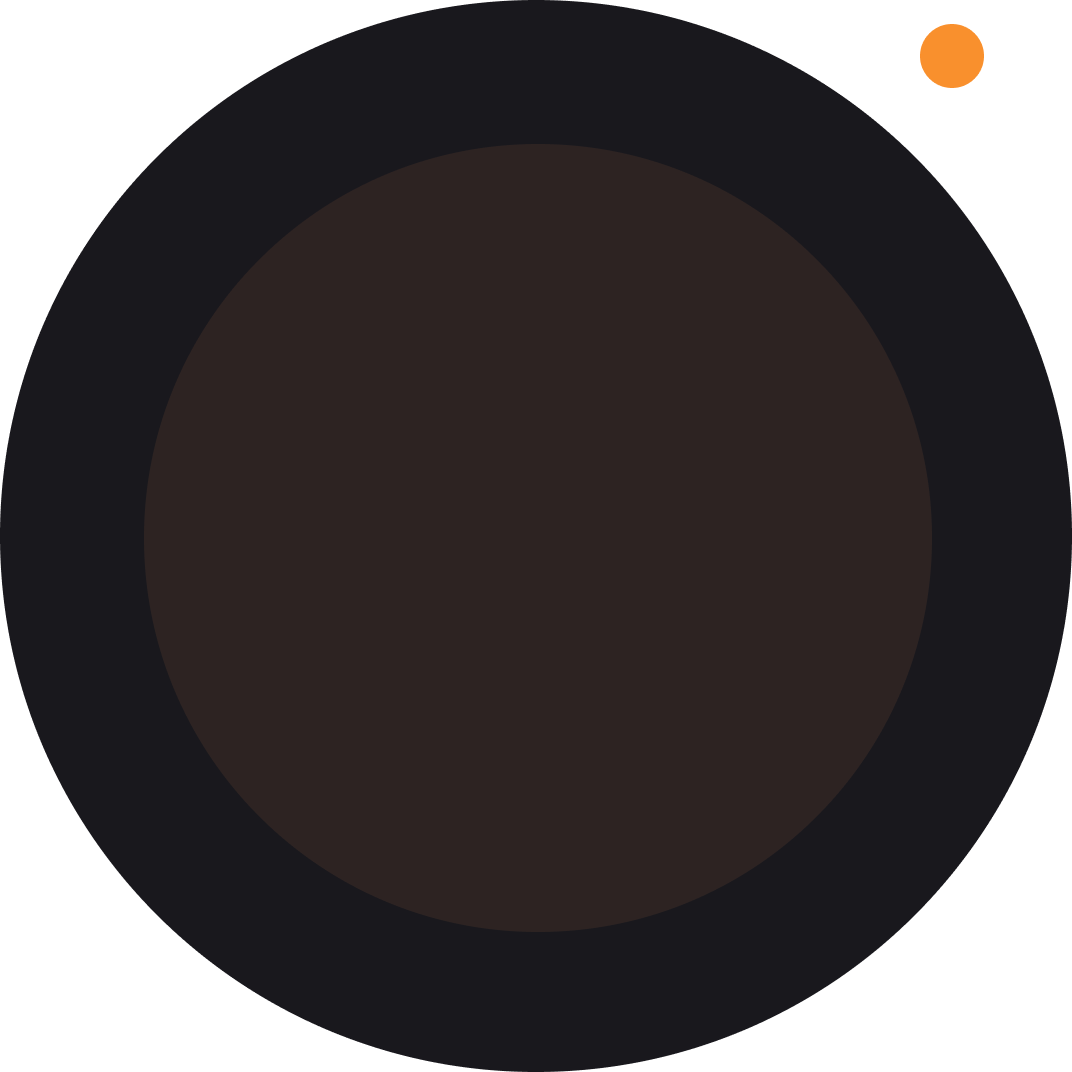
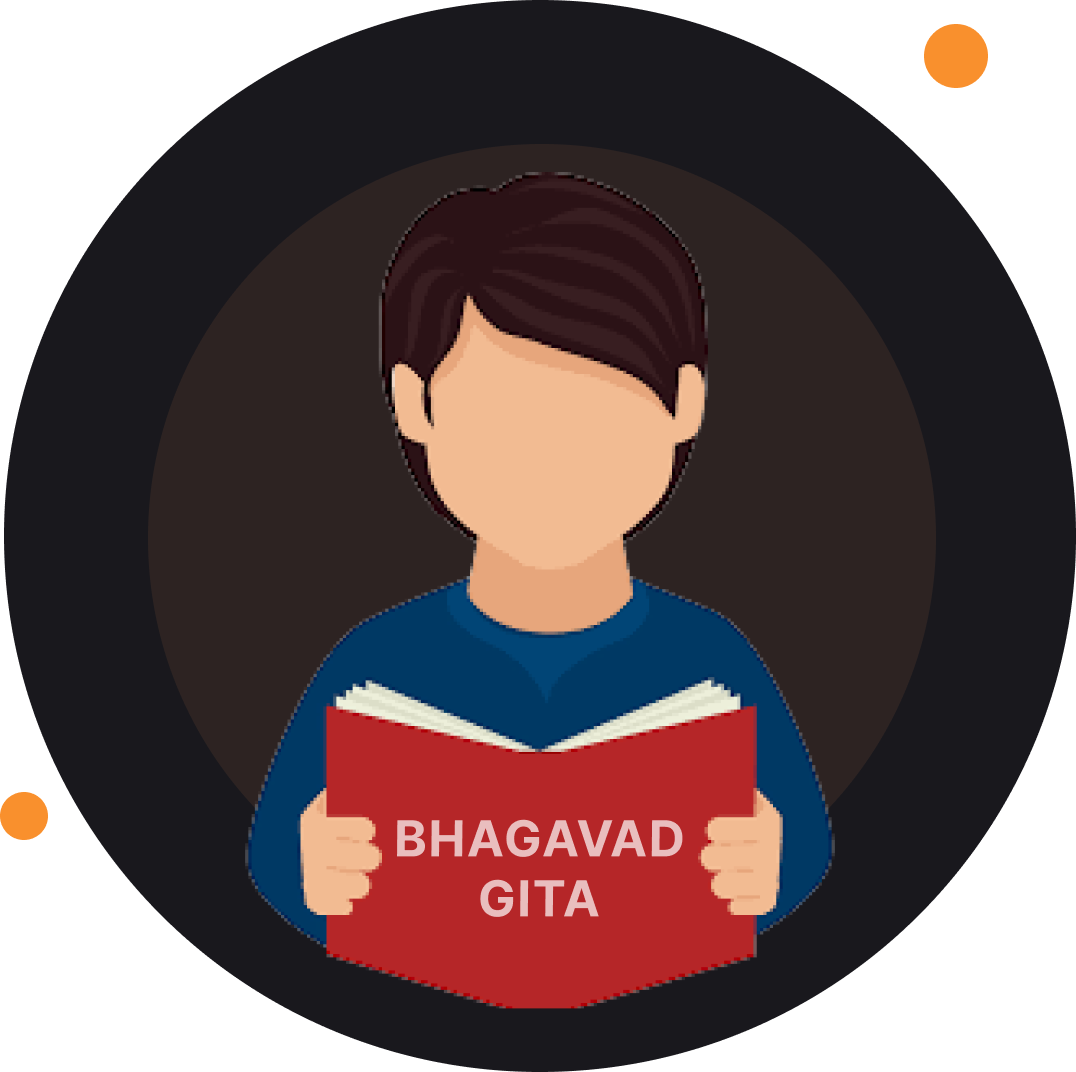
feat: completed onboarding screen

diff --git a/lib/features/onboarding/presentation/screens/onboarding_screen.dart b/lib/features/onboarding/presentation/screens/onboarding_screen.dart
@@ -1,61 +1,172 @@
-import 'dart:convert';
-
-import 'package:bhagvadgita/core/extensions/string_extension.dart';
+import 'package:bhagvadgita/core/extensions/num_extension.dart';
+import 'package:bhagvadgita/core/shared/widgets/build_text.dart';
+import 'package:bhagvadgita/core/theme/app_colors.dart';
+import 'package:bhagvadgita/features/onboarding/domain/entities/onboarding_model.dart';
 import 'package:bhagvadgita/features/onboarding/presentation/providers/onboarding_providers.dart';
-import 'package:bhagvadgita/core/helper/shared_preference_helper.dart';
-import 'package:bhagvadgita/features/language_change/presentation/screens/language_change_dialog.dart';
 import 'package:flutter/material.dart';
+import 'package:flutter/services.dart';
+import 'package:flutter_screenutil/flutter_screenutil.dart';
 import 'package:hooks_riverpod/hooks_riverpod.dart';
-
-import '../../../../core/dependency_injection/injector.dart';
-import '../../../../core/route/route.dart';
-import '../../../language_change/presentation/providers/language_provider.dart';
 
 class OnBoardingScreen extends ConsumerWidget {
   const OnBoardingScreen({super.key});
 
   @override
   Widget build(BuildContext context, WidgetRef ref) {
-    final notifier = ref.read(languageProvider.notifier);
+    final notifier = ref.read(pageIndexProvider.notifier);
+    final controller = PageController();
+    final currentIndex = ref.watch(pageIndexProvider);
+    List<OnBoardingModel> onboardinglist = [
+      OnBoardingModel(
+          image: "assets/images/onboardingImg1.png",
+          title: "Bhagavad Gita - Simplified",
+          subtitle: "Read the Gita anytime,\n where ever you wish"),
+      OnBoardingModel(
+          image: "assets/images/onboardingImg2.png",
+          title: "Multi Language",
+          subtitle:
+              "It build in two languages Hindi,\n English with best and easy translation "),
+      OnBoardingModel(
+          image: "assets/images/onboardingImg3.png",
+          title: "Audio Book",
+          subtitle:
+              "You can listen the book in Hindi,\n English while doing your work"),
+      OnBoardingModel(
+          image: "assets/images/onboardingImg4.png",
+          title: "Let’s Start",
+          subtitle: "Start app and enjoy it"),
+    ];
+    const style = SystemUiOverlayStyle(
+      statusBarBrightness: Brightness.dark,
+      statusBarIconBrightness: Brightness.light,
+    );
+    SystemChrome.setSystemUIOverlayStyle(style);
+
     return Scaffold(
-      body: Center(
-        child: Column(
-          mainAxisAlignment: MainAxisAlignment.center,
+        backgroundColor: const Color(0xff15161B),
+        body: Column(
           children: [
-            Text("${ref.watch(languageProvider).countryCode}"),
-            ElevatedButton(
-                onPressed: () async {
-                  Map<String, String> localeMap = {
-                    'languageCode': 'ne',
-                    'countryCode': 'NP'
-                  };
-                  await getIt<SharedPreferencesHelper>()
-                      .setString("locale", json.encode(localeMap));
-                  notifier.update((state) => const Locale('ne', 'NP'));
+            Expanded(
+              child: PageView.builder(
+                controller: controller,
+                itemCount: onboardinglist.length,
+                onPageChanged: (value) {
+                  notifier.update((state) => value);
                 },
-                child: const Text("Nepali")),
-            ElevatedButton(
-                onPressed: () async {
-                  Map<String, String> localeMap = {
-                    'languageCode': 'en',
-                    'countryCode': 'US'
-                  };
-                  await getIt<SharedPreferencesHelper>()
-                      .setString("locale", json.encode(localeMap));
-                  notifier.update((state) => const Locale('en', 'US'));
+                itemBuilder: (context, i) {
+                  return OnBoardingItem(
+                    image: onboardinglist[i].image,
+                    title: onboardinglist[i].title,
+                    subtitle: onboardinglist[i].subtitle,
+                  );
                 },
-                child: const Text("English")),
-            InkWell(
-                onTap: () {
-                  showDialog(
-                      context: context,
-                      builder: (_) => const ChangeLanguageDialog());
-                  // AppRouter.pushNamed(
-                  //     context: context, routeName: AppRouter.homeScreen);
-                },
-                child: Text("welcome".localize(context))),
+              ),
+            ),
+            if (currentIndex == 3) ...{
+              ElevatedButton(
+                onPressed: () {},
+                style: ElevatedButton.styleFrom(
+                  backgroundColor: AppColor.primary,
+                ),
+                child: BuildText(
+                  text: "Get started",
+                  weight: FontWeight.w600,
+                  fontSize: 16.sp,
+                  color: Colors.white,
+                  letterSpacing: 1.5,
+                ),
+              )
+            },
+            if (currentIndex != 3) ...{
+              Row(
+                mainAxisAlignment: MainAxisAlignment.spaceAround,
+                children: [
+                  InkWell(
+                    onTap: () {
+                      controller.animateToPage(currentIndex - 1,
+                          duration: const Duration(milliseconds: 300),
+                          curve: Curves.easeInOut);
+                    },
+                    child: BuildText(
+                      text: "SKIP",
+                      color: Colors.white,
+                      fontSize: 14.sp,
+                      weight: FontWeight.w600,
+                    ),
+                  ),
+                  Row(
+                    mainAxisAlignment: MainAxisAlignment.center,
+                    children: List.generate(onboardinglist.length, (i) {
+                      return Container(
+                        height: 10,
+                        width: currentIndex == i ? 25 : 10,
+                        margin: const EdgeInsets.only(right: 5),
+                        decoration: BoxDecoration(
+                            color: currentIndex == i
+                                ? AppColor.primary
+                                : AppColor.primary.withOpacity(0.5),
+                            borderRadius: BorderRadius.circular(20)),
+                      );
+                    }),
+                  ),
+                  InkWell(
+                    onTap: () {
+                      controller.animateToPage(currentIndex + 1,
+                          duration: const Duration(milliseconds: 300),
+                          curve: Curves.easeInOut);
+                    },
+                    child: BuildText(
+                      text: "NEXT ->",
+                      color: Colors.white,
+                      fontSize: 14.sp,
+                      weight: FontWeight.w600,
+                    ),
+                  ),
+                ],
+              )
+            },
+            20.height
           ],
-        ),
+        ));
+  }
+}
+
+class OnBoardingItem extends StatelessWidget {
+  final String image;
+  final String title;
+  final String subtitle;
+  const OnBoardingItem({
+    super.key,
+    required this.image,
+    required this.title,
+    required this.subtitle,
+  });
+
+  @override
+  Widget build(BuildContext context) {
+    return Center(
+      child: Column(
+        mainAxisAlignment: MainAxisAlignment.center,
+        children: [
+          Image.asset(
+            image,
+            height: 247.w,
+            width: 247.w,
+          ),
+          8.height,
+          BuildText(
+            text: title,
+            fontSize: 20.sp,
+            color: Colors.white,
+            weight: FontWeight.bold,
+          ),
+          8.height,
+          BuildText(
+            text: subtitle,
+            fontSize: 16.sp,
+            color: Colors.white,
+          ),
+        ],
       ),
     );
   }

diff --git a/lib/features/onboarding/domain/entities/onboarding_model.dart b/lib/features/onboarding/domain/entities/onboarding_model.dart
@@ -1,0 +1,11 @@
+class OnBoardingModel {
+  final String image;
+  final String title;
+  final String subtitle;
+
+  OnBoardingModel({
+    required this.image,
+    required this.title,
+    required this.subtitle,
+  });
+}

diff --git a/lib/features/onboarding/presentation/providers/onboarding_providers.dart b/lib/features/onboarding/presentation/providers/onboarding_providers.dart
@@ -15,3 +15,6 @@
 //     return const Locale('en', 'US');
 //   }
 // });
+import 'package:hooks_riverpod/hooks_riverpod.dart';
+
+final pageIndexProvider = StateProvider<int>((ref) => 0);
